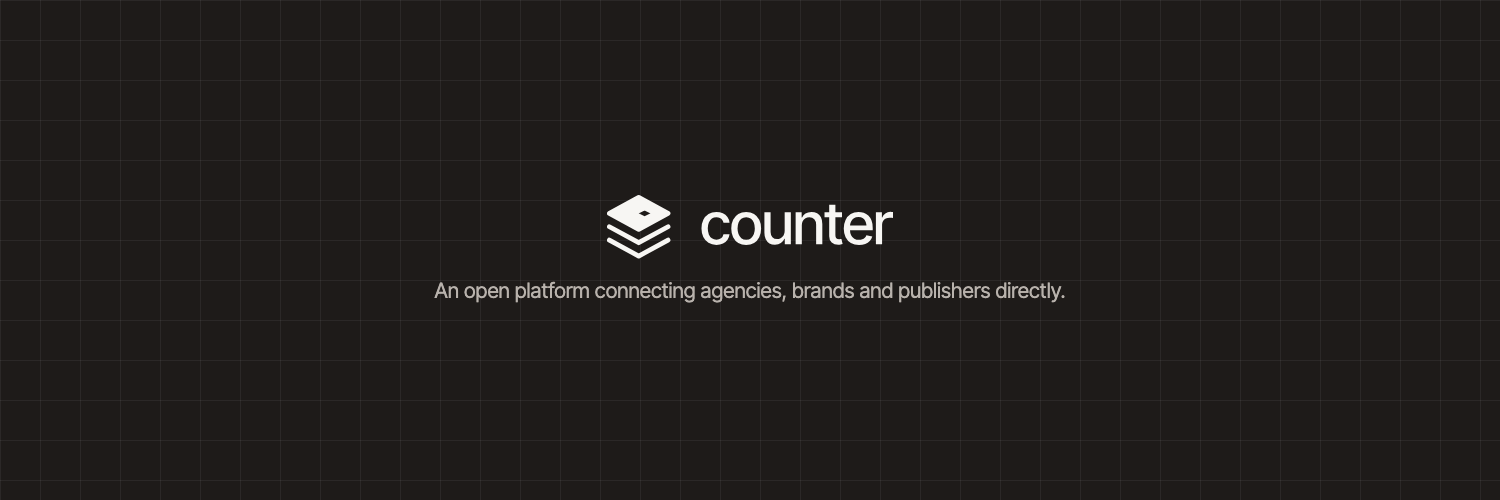
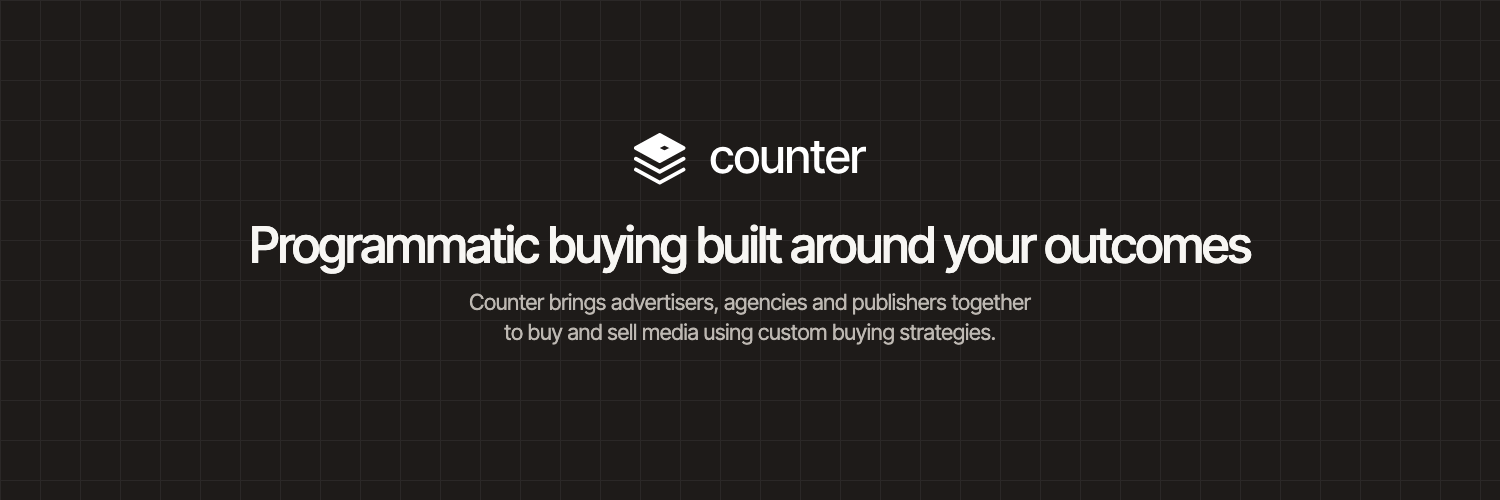
feat: update social images to the new hero copy
Regenerate the Open Graph, GitHub, X and LinkedIn images in both themes from the home hero headline and subhead, and add a script to render them reproducibly.

Changed region(s): [[0.1533, 0.39, 0.8587, 0.69], [0.3987, 0.27, 0.5827, 0.36]]

diff --git a/public/assets/brand/README.md b/public/assets/brand/README.md
@@ -18,7 +18,7 @@ Colours: ink `#1e1b19`, paper `#f7f6f3`.
 | X header | `social/x-header.png` (1500×500). Content is centred because the avatar overlaps bottom-left. |
 | LinkedIn company cover | `social/linkedin-banner.png` (2256×382, i.e. LinkedIn’s 1128×191 at 2×). Content is right of centre because the page logo overlaps the bottom-left. |
 
-Each social image also has a `-dark` variant.
+Each social image also has a `-dark` variant. The social images use the home page hero copy. After changing it, update `HEADLINE` and `SUBHEAD` in `scripts/social-images.mjs` and run `node scripts/social-images.mjs`. The script regenerates every social image and the `/assets/og-image.png` copy. The LinkedIn illustration comes from `scripts/social/`.
 
 ## Site icons
 
